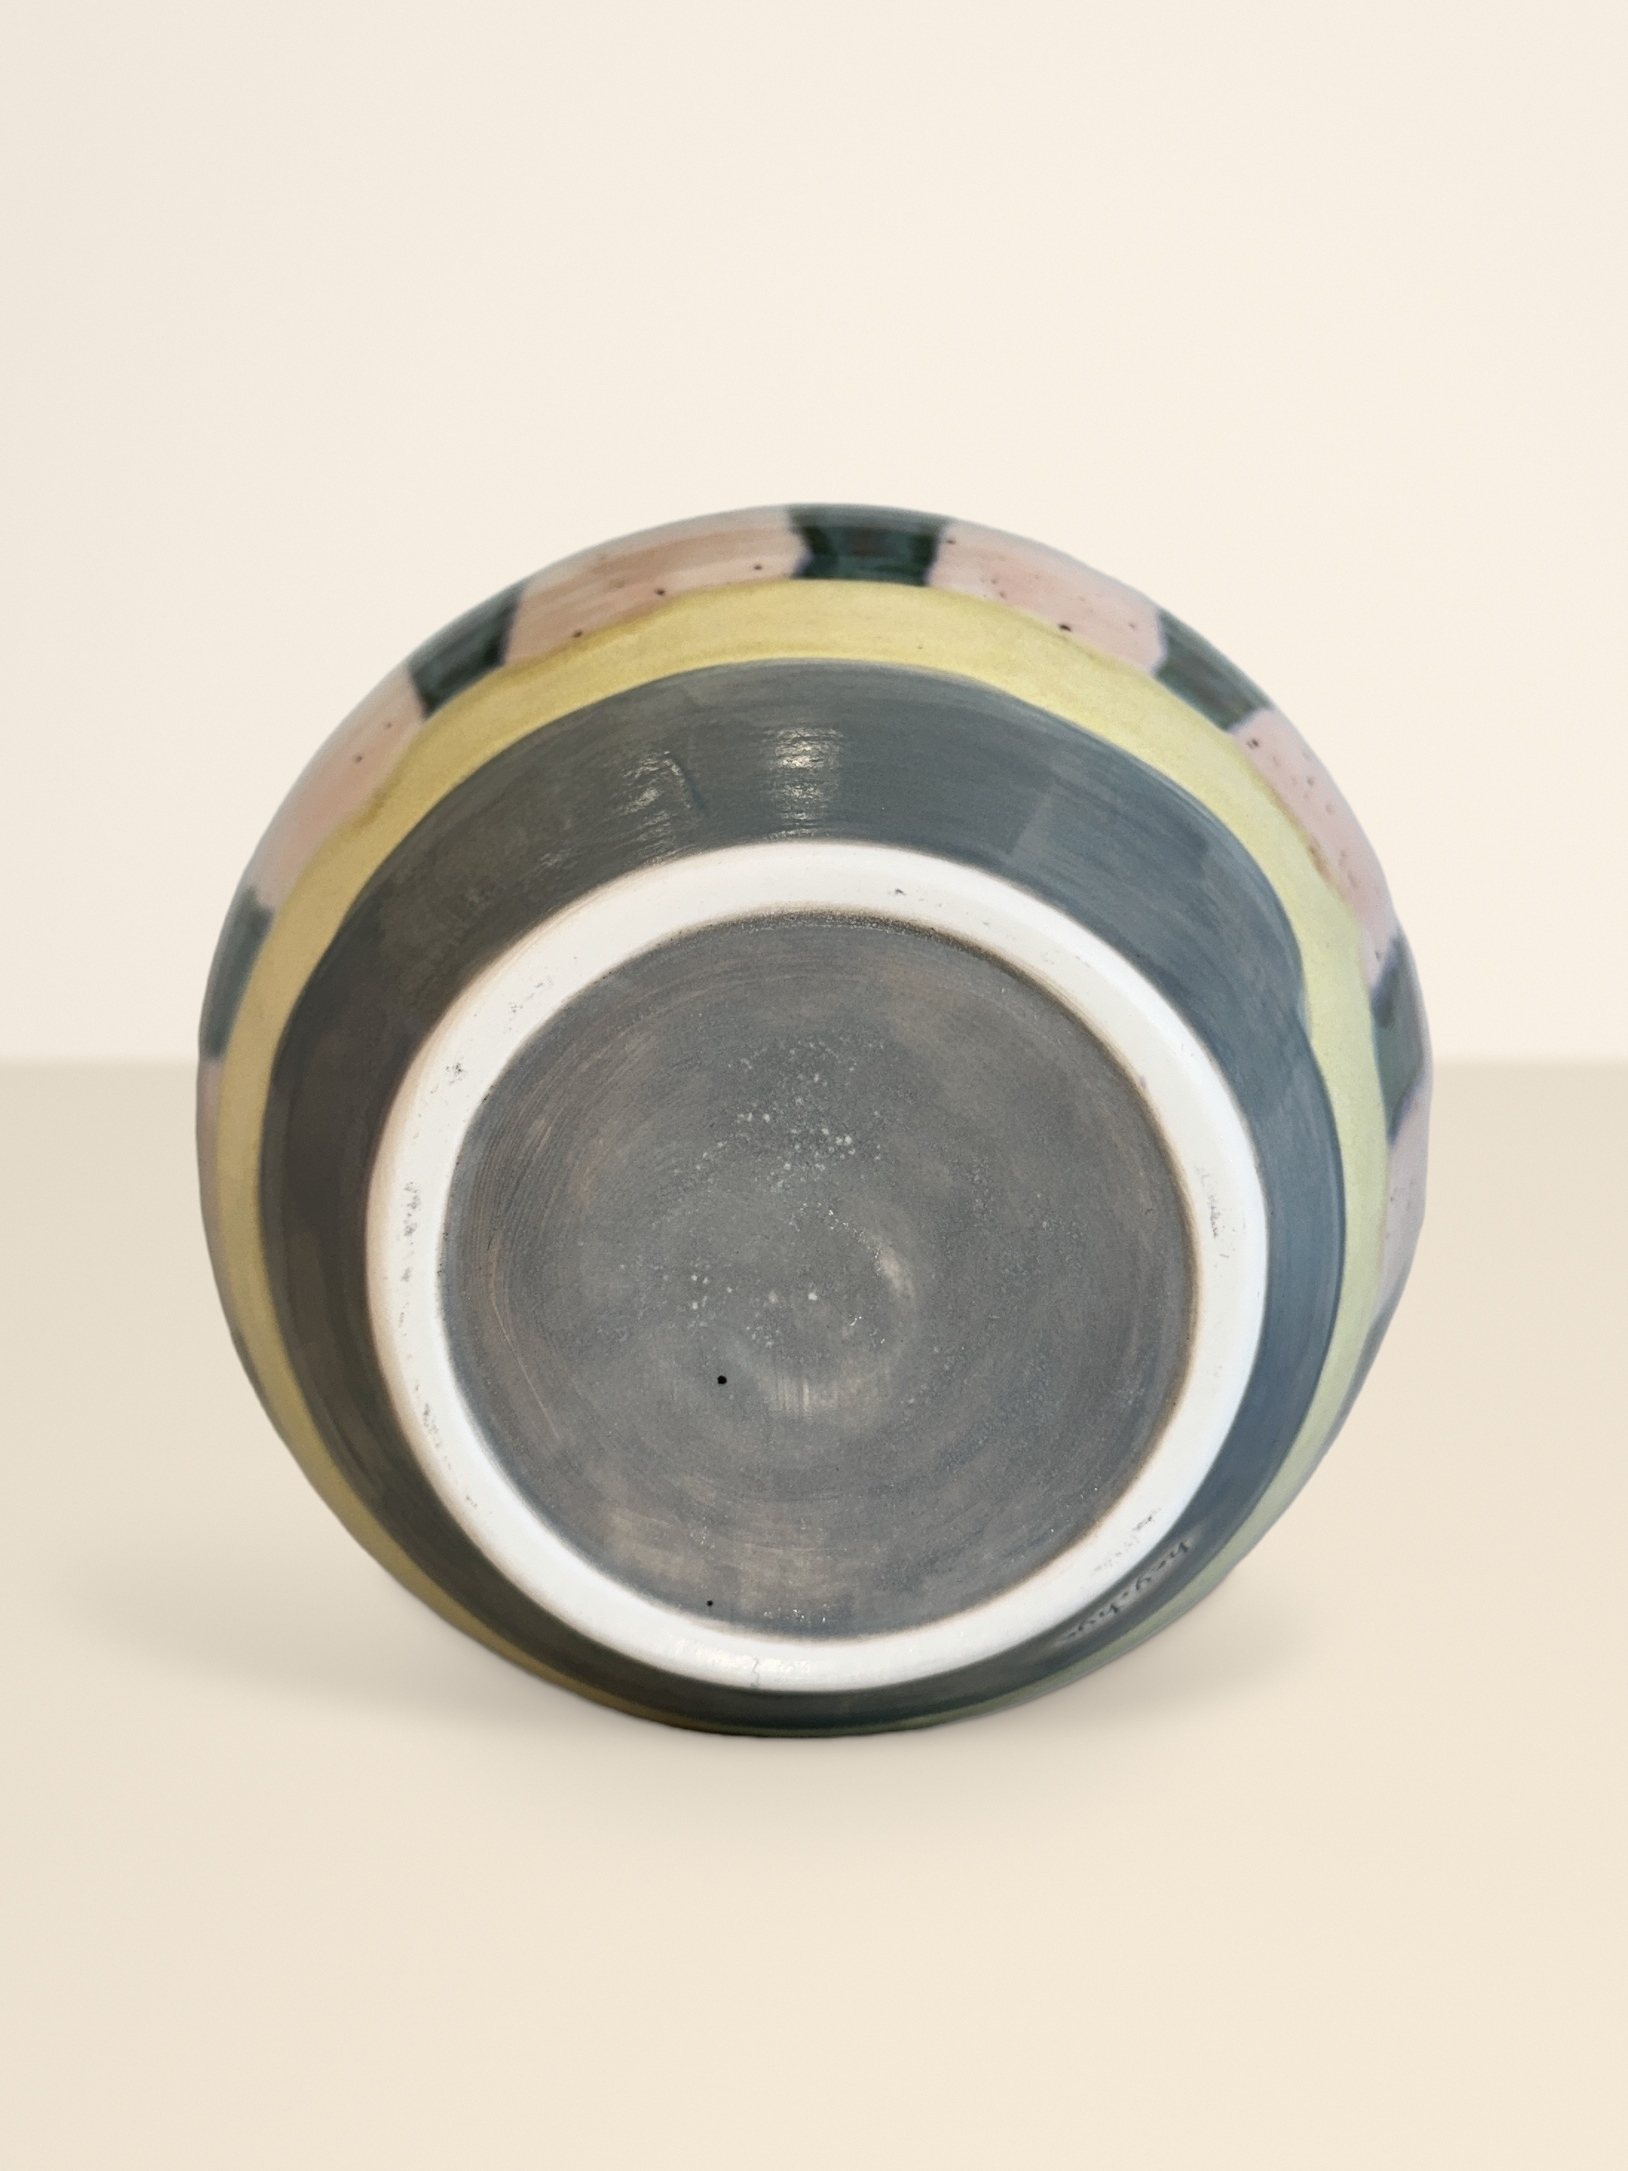
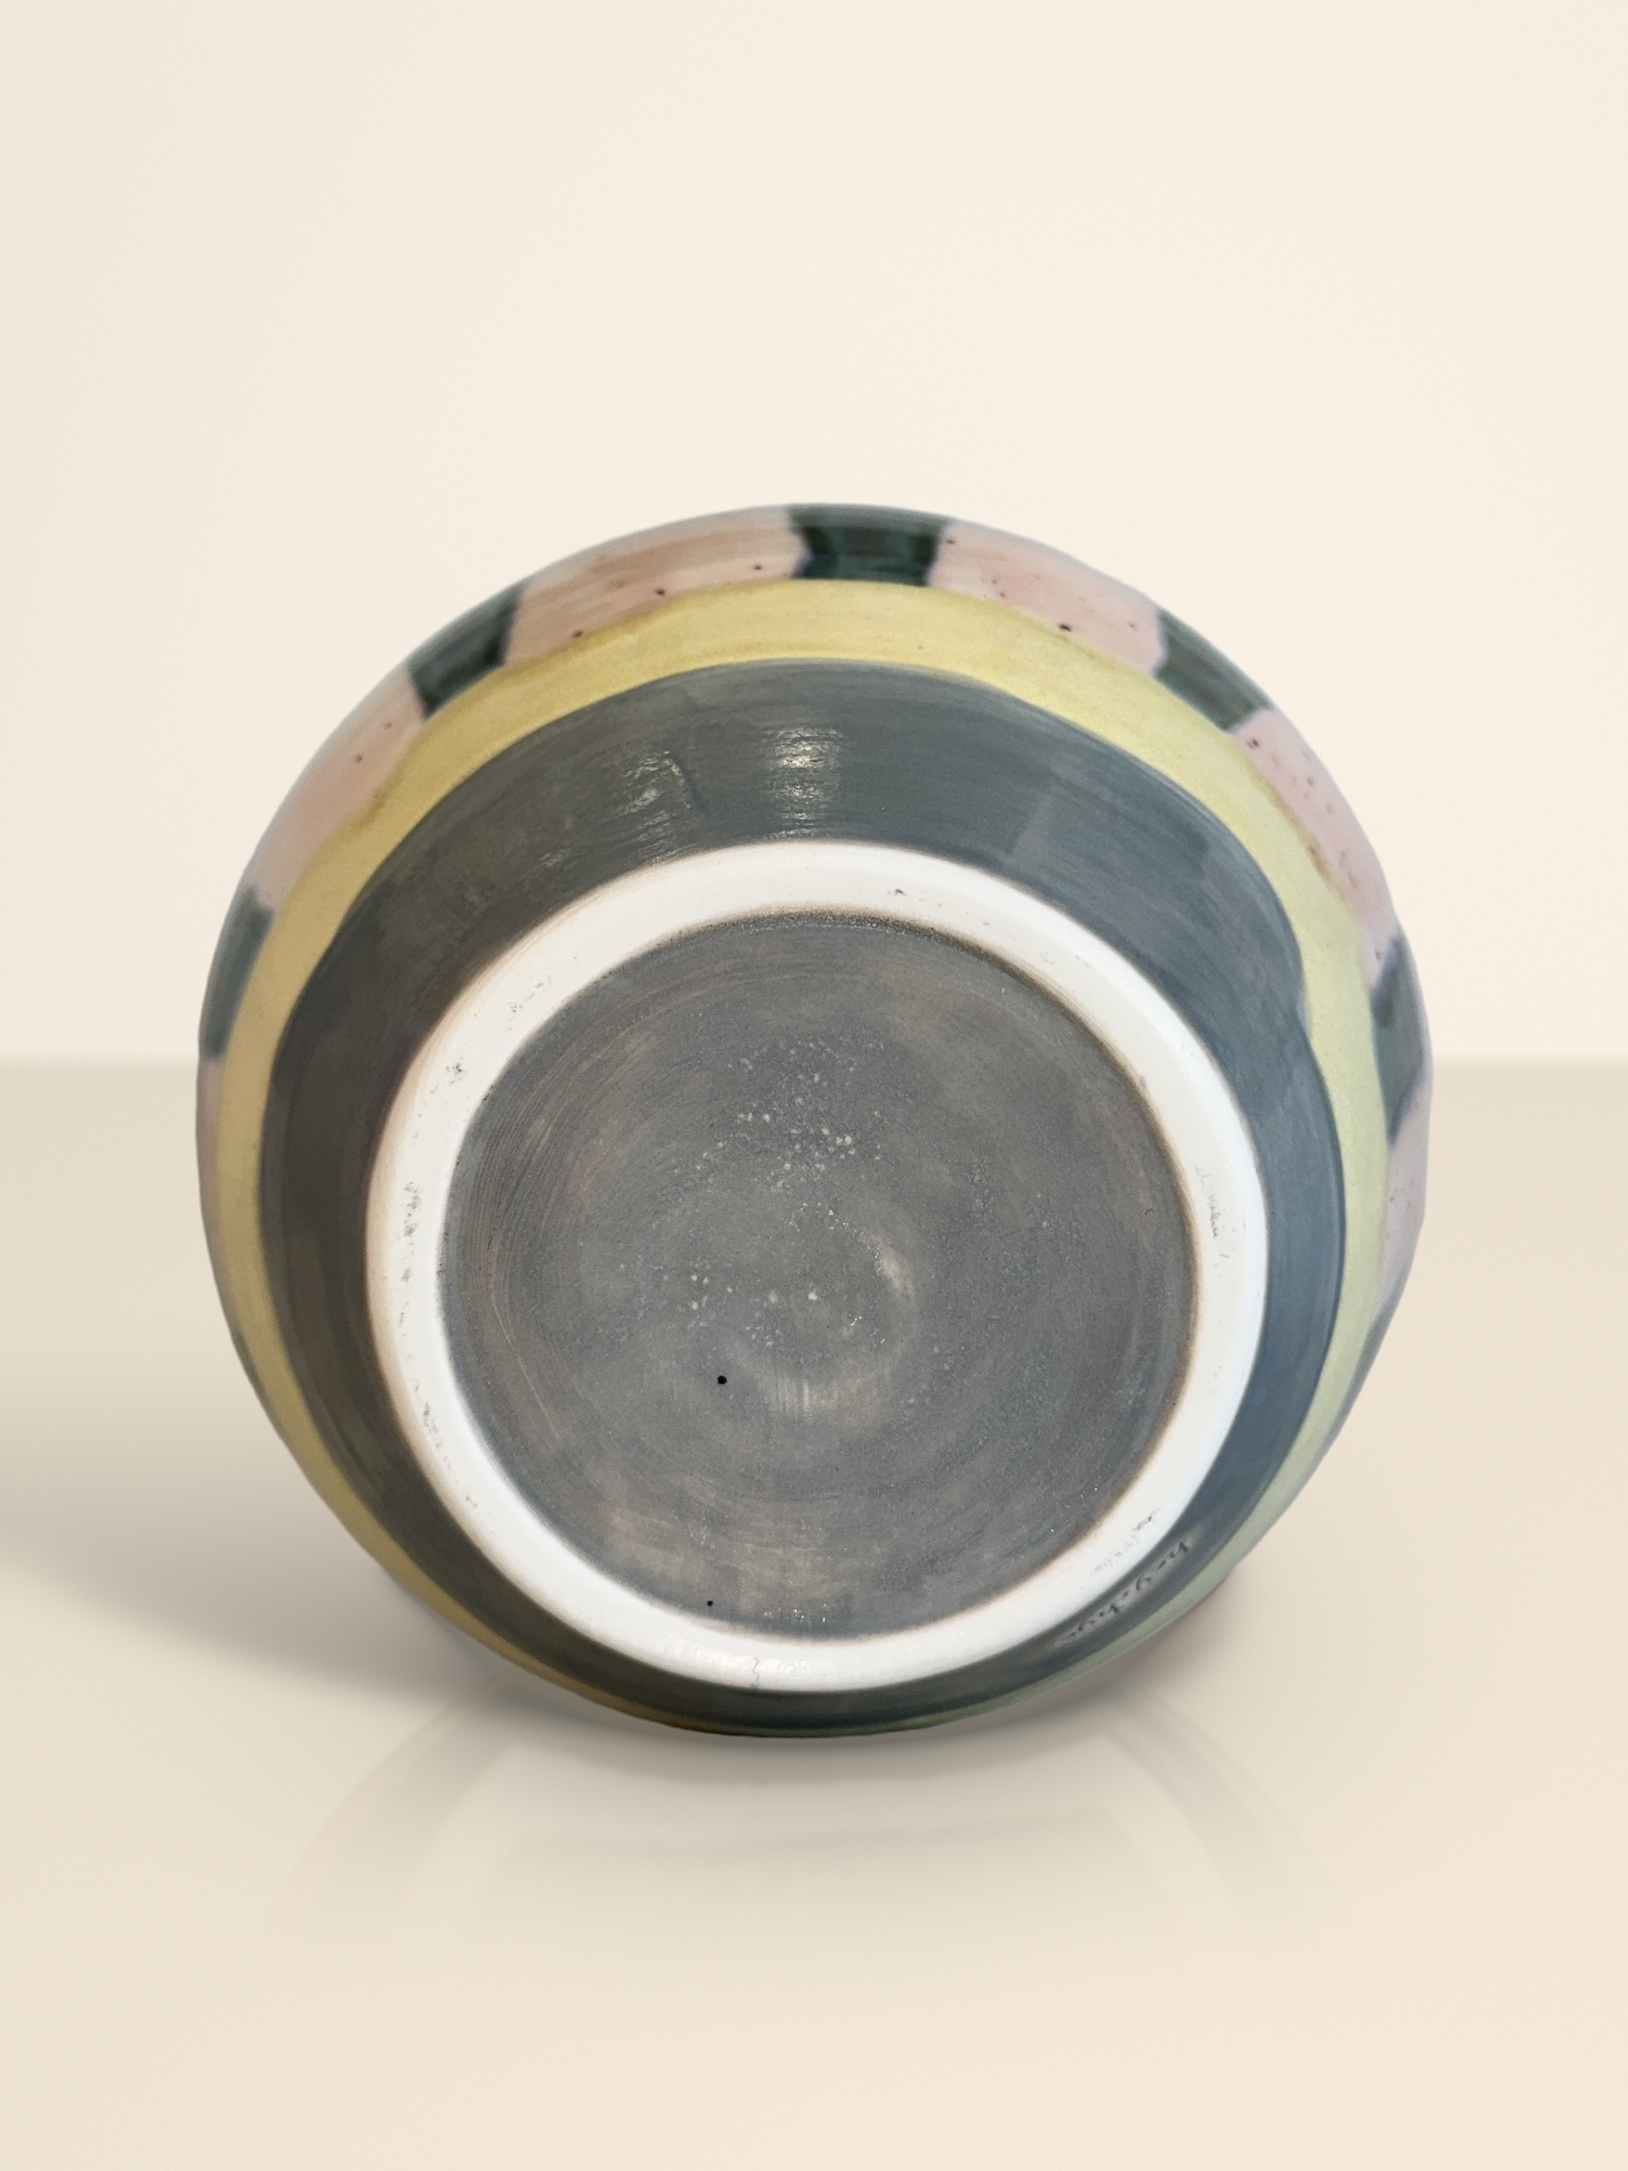
Ground products: body-width occlusion shade, longer cast shadow, table reflection
Products still looked like they hovered over the backdrop. Compared with
a real tabletop shot, the table under the product's body should darken
and the product should faintly reflect in a semi-gloss table.

- Add a soft occlusion shade as wide as the product body, laid on the
  table at the foot in the same perspective as the foot ellipse.
- --cast (default 2.2) scales that shade and the cast shadow's length
  and strength.
- --reflect (default 0.18, 0 = off) mirrors the product about the table
  plane (real bottom contour under the foot, foot height elsewhere so
  body sides do not streak), fading and blurring with distance.
- Regenerate samples; add a no-reflection variant for comparison.
  Product pixels remain unchanged.

Claude-Session: https://claude.ai/code/session_01WGwx9JVhJ7CYZxXMbtASsV

Changed region(s): [[0.0, 0.6789, 0.7678, 0.8641]]

diff --git a/tools/studio.py b/tools/studio.py
@@ -241,7 +241,7 @@ def choose_backdrop(alpha):
     return "split" if ratio >= 0.45 else "sweep"
 
 
-def shadows(alpha, light_x, strength=1.0):
+def shadows(alpha, light_x, strength=1.0, cast=1.0):
     """그림자 농도 맵(0~1). 세 겹:
 
     1) 접지 그림자: 굽이 바닥에 닿는 선 바로 주변, 짧고 진하게 (붙어 있는 느낌의 핵심)
@@ -277,22 +277,70 @@ def shadows(alpha, light_x, strength=1.0):
 
     # 드리운 그림자: 높이 hgt 인 점을 (뒤로) sy*hgt 만큼, (옆으로) shear*hgt 만큼 이동
     dirx = -np.sign(light_x) if abs(light_x) > 0.08 else 0.0
-    shear = 0.55 * min(abs(light_x) * 1.6, 1.0) * dirx
-    sy = 0.22
+    # cast>1 이면 그림자가 더 길고(옆·뒤로) 진해진다
+    shear = 0.55 * min(abs(light_x) * 1.6, 1.0) * dirx * (1 + 0.6 * (cast - 1))
+    sy = 0.22 * (1 + 0.5 * (cast - 1))
     M = np.float32([[1, -shear, shear * bot], [0, sy, (1 - sy) * bot]])
     proj = cv2.warpAffine((alpha > 0.5).astype(np.float32), M, (w, h), flags=cv2.INTER_LINEAR)
     dist = np.clip((bot - yy) / (sy * H + 1), 0, 1)       # 0: 굽 근처 → 1: 그림자 끝
     blurs = [cv2.GaussianBlur(proj, (0, 0), s) for s in (a * 0.05, a * 0.11, a * 0.22)]
     k = dist * 2
-    cast = np.where(k < 1, blurs[0] * (1 - k) + blurs[1] * k,
-                    blurs[1] * (2 - k) + blurs[2] * (k - 1))
-    cast *= (1 - dist) ** 1.3
+    cast_map = np.where(k < 1, blurs[0] * (1 - k) + blurs[1] * k,
+                        blurs[1] * (2 - k) + blurs[2] * (k - 1))
+    cast_map *= (1 - dist) ** 1.3
 
-    s = contact * 0.55 + near * 0.30 + ambient * 0.15 + cast * 0.24
+    # 위에서 오는 빛에 의한 몸통 그늘: 제품 최대 폭만큼 넓은 타원을 굽 위치 바닥에 깔고
+    # 크게 흐리게 (몸통이 테이블을 가리는 만큼 어두워짐 — 떠 보임을 없애는 핵심)
+    maxw = max(np.ptp(np.nonzero(sil[r])[0]) for r in range(ys.min(), bot + 1, 4)
+               if sil[r].any()) / 2
+    pr = b / max(a, 1)                            # 원근(바닥 타원의 납작함)
+    body = np.zeros((h, w), np.float32)
+    cv2.ellipse(body, (int(round(cx)), int(round(cy))),
+                (max(int(maxw * 0.9), 1), max(int(maxw * 0.9 * pr), 1)), 0, 0, 360, 1.0, -1,
+                cv2.LINE_AA)
+    body = cv2.GaussianBlur(body, (0, 0), maxw * 0.22)
+
+    s = (contact * 0.55 + near * 0.30 * cast ** 0.5 + ambient * 0.15 * cast
+         + cast_map * 0.24 * cast + body * 0.22 * (cast - 1))
     return np.clip(s * strength, 0, 0.8)
 
 
-def render(img_t, alpha, wall_bgr, floor_bgr, light_x, shadow_strength=1.0, style="auto"):
+def reflection(img_t, alpha, strength=0.12, length=0.28):
+    """반광택 테이블에 비친 제품 (배경에만 그림).
+
+    열마다 실제 바닥 윤곽(가장 아래 점)을 기준으로 제품을 위아래로 뒤집어
+    그 아래에 놓고, 멀어질수록 옅고 흐리게 한다. 반환: (반사 이미지, 농도 맵)
+    """
+    h, w = alpha.shape
+    solid = alpha > 0.5
+    ys = np.nonzero(solid)[0]
+    top, bot = ys.min(), ys.max()
+    L = max(length * (bot - top), 1.0)
+    low = np.full(w, -1, np.float32)
+    cols = np.nonzero(solid.any(0))[0]
+    low[cols] = h - 1 - np.argmax(solid[::-1, cols], axis=0)
+    # 거울면 = 테이블 면: 굽이 닿는 열은 실제 바닥 윤곽, 그 바깥(몸통 옆면)은 굽 바닥 높이.
+    # 옆면 윤곽을 기준으로 뒤집으면 몸통 옆에 줄무늬가 생기므로 쓰지 않는다
+    cx, cy, a, b, _ = footprint(alpha)
+    xx = np.arange(w, dtype=np.float32)
+    in_foot = (np.abs(xx - cx) <= a) & (low >= cy - 2)
+    low = np.where(in_foot, low, cy).astype(np.float32)
+    yy = np.arange(h, dtype=np.float32)[:, None]
+    map_y = (2 * low[None, :] - yy).astype(np.float32)
+    map_x = np.repeat(np.arange(w, dtype=np.float32)[None, :], h, 0)
+    refl = cv2.remap(img_t, map_x, map_y, cv2.INTER_LINEAR, borderMode=cv2.BORDER_CONSTANT)
+    ra = cv2.remap(alpha.astype(np.float32), map_x, map_y, cv2.INTER_LINEAR,
+                   borderMode=cv2.BORDER_CONSTANT)
+    d = np.clip((yy - low[None, :]) / L, 0, 1)
+    ra = ra * (yy > low[None, :]) * (1 - d) ** 2 * strength
+    # 테이블 결 때문에 비친 모습은 살짝 흐리게
+    refl = cv2.GaussianBlur(refl.astype(np.float32), (0, 0), 2.5)
+    ra = cv2.GaussianBlur(ra, (0, 0), 1.5)
+    return refl, ra
+
+
+def render(img_t, alpha, wall_bgr, floor_bgr, light_x, shadow_strength=1.0, style="auto",
+           cast=1.0, reflect=0.0):
     """배경 생성 + 그림자 + 합성. alpha==1 인 제품 픽셀은 원본 그대로.
 
     style: "split"(벽·바닥 경계), "sweep"(경계 없는 스튜디오), "auto"(제품 비율로 선택)
@@ -308,10 +356,13 @@ def render(img_t, alpha, wall_bgr, floor_bgr, light_x, shadow_strength=1.0, styl
         bg = backdrop_split(w, h, wall_bgr, floor_bgr, seam_y(alpha), bot, light_x)
     else:
         bg = backdrop(w, h, wall_bgr, floor_bgr, bot, light_x)
-    s = shadows(alpha, light_x, shadow_strength)[..., None]
+    s = shadows(alpha, light_x, shadow_strength, cast)[..., None]
     # 그림자 색: 바닥색을 어둡고 약간 진하게 (회색이 아닌 같은 톤의 그늘)
     shade = np.asarray(floor_bgr, np.float32) * 0.42
     bg = bg * (1 - s) + shade * s
+    if reflect > 0:
+        refl, ra = reflection(img_t, alpha, reflect)
+        bg = bg * (1 - ra[..., None]) + refl * ra[..., None]
     a = alpha[..., None]
     out = img_t.astype(np.float32) * a + bg * (1 - a)
     out = np.clip(np.rint(out), 0, 255).astype(np.uint8)

diff --git a/tools/replace_background.py b/tools/replace_background.py
@@ -22,6 +22,9 @@
     # 배경 형태: 높이가 있는 제품은 자동으로 벽·테이블(split), 접시 등 납작하면 경계 없는 배경(sweep)
     python tools/replace_background.py product.jpg out.jpg --backdrop sweep
 
+    # 떠 보임 조절: 그림자·몸통 그늘 크기(--cast), 테이블 반사(--reflect, 0이면 끔)
+    python tools/replace_background.py product.jpg out.jpg --cast 2.6 --reflect 0
+
     # 한 제품의 여러 각도 사진을 세트로: 캔버스 크기 통일
     python tools/replace_background.py a.jpg a_out.jpg --canvas 1628x2171
 
@@ -347,7 +350,12 @@ def main():
     p.add_argument("--backdrop", choices=["auto", "split", "sweep"], default="auto",
                    help="배경 형태. split: 벽과 바닥(테이블)이 경계선으로 나뉨(높이가 있는 제품), "
                         "sweep: 경계 없는 스튜디오(접시 등 납작한 제품). auto: 제품 비율로 자동")
-    p.add_argument("--shadow", type=float, default=1.0, help="그림자 진하기 배율 (기본 1.0)")
+    p.add_argument("--shadow", type=float, default=1.0, help="그림자 전체 진하기 배율 (기본 1.0)")
+    p.add_argument("--cast", type=float, default=2.2,
+                   help="몸통 그늘·드리운 그림자의 크기/진하기 (기본 2.2, 1.0=약하게). "
+                        "제품이 떠 보이면 올리기")
+    p.add_argument("--reflect", type=float, default=0.18,
+                   help="반광택 테이블에 비친 제품의 세기 (기본 0.18, 0=반사 없음)")
     p.add_argument("--mask-out", help="알파 마스크 저장 경로(선택)")
     p.add_argument("--view", choices=["top", "side"], default="top",
                    help="top: 위에서 내려다본 사진, side: 옆에서 찍은 사진 "
@@ -408,11 +416,11 @@ def main():
     print(f"사용: {chosen['label_ko']} {studio.hex_of(chosen['wall'])}")
 
     out = studio.render(img_t, alpha, chosen["wall"], chosen["floor"], light_x, args.shadow,
-                        args.backdrop)
+                        args.backdrop, args.cast, args.reflect)
     cv2.imwrite(args.output, out, [cv2.IMWRITE_JPEG_QUALITY, 97])
     if args.palette_sheet:
         renders = [studio.render(img_t, alpha, c["wall"], c["floor"], light_x, args.shadow,
-                                 args.backdrop)
+                                 args.backdrop, args.cast, args.reflect)
                    for c in cands]
         studio.palette_sheet(renders, cands, args.palette_sheet)
     if args.mask_out:
